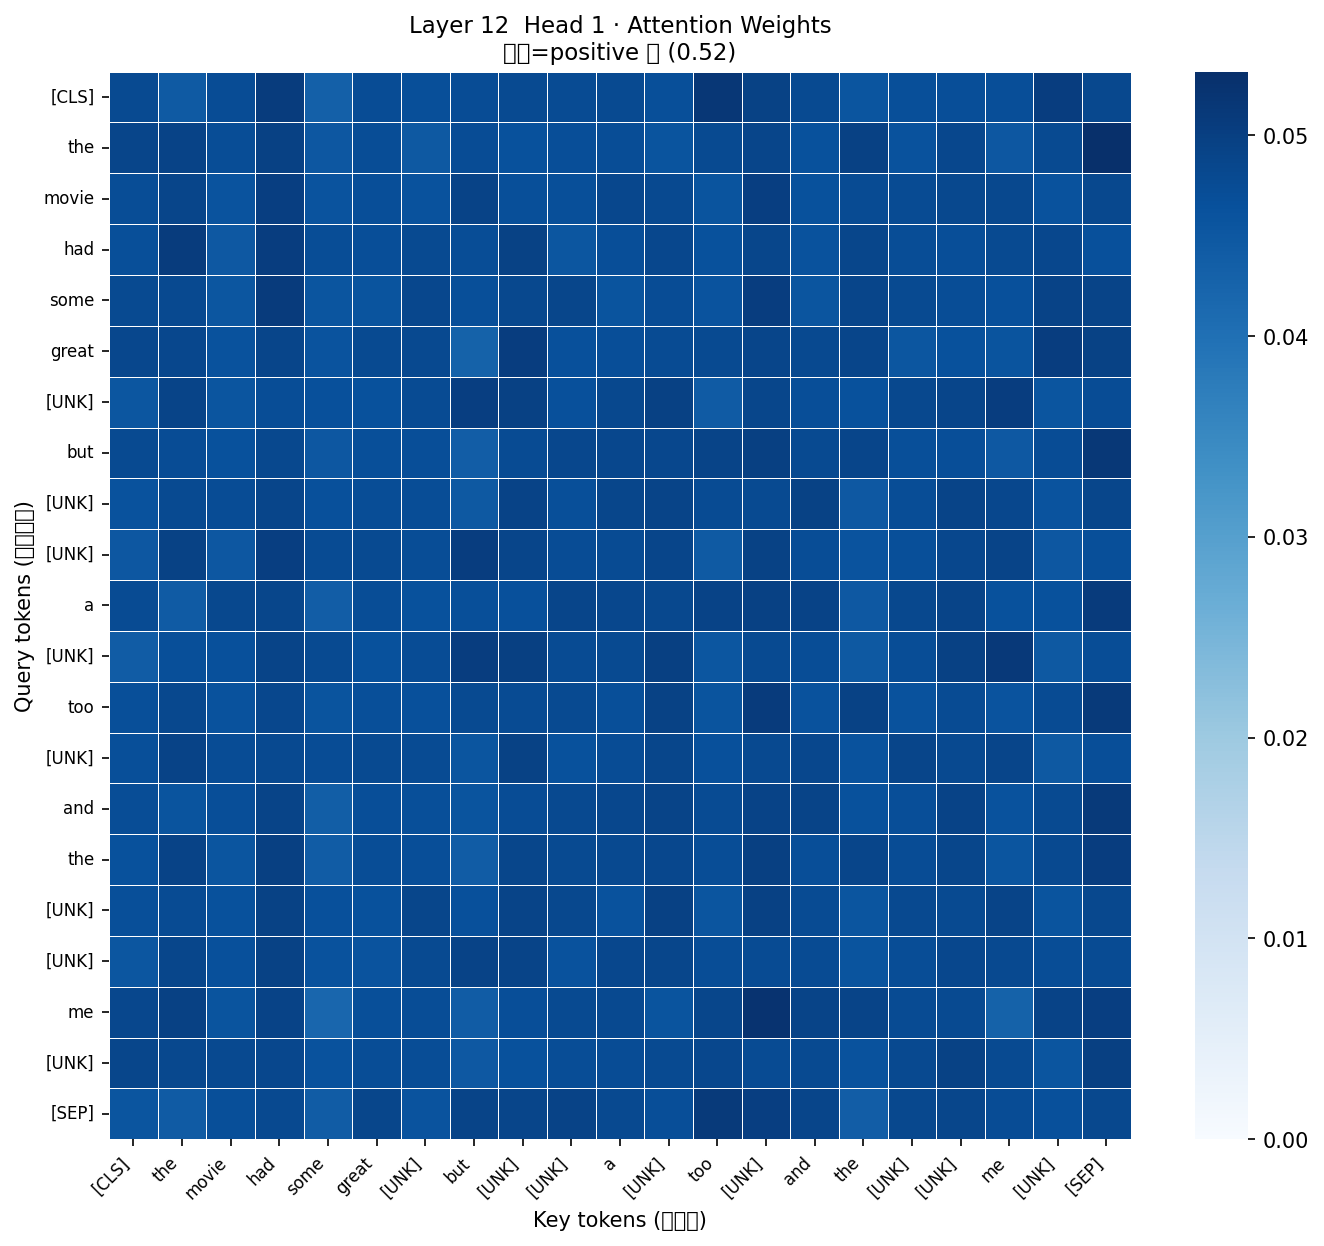
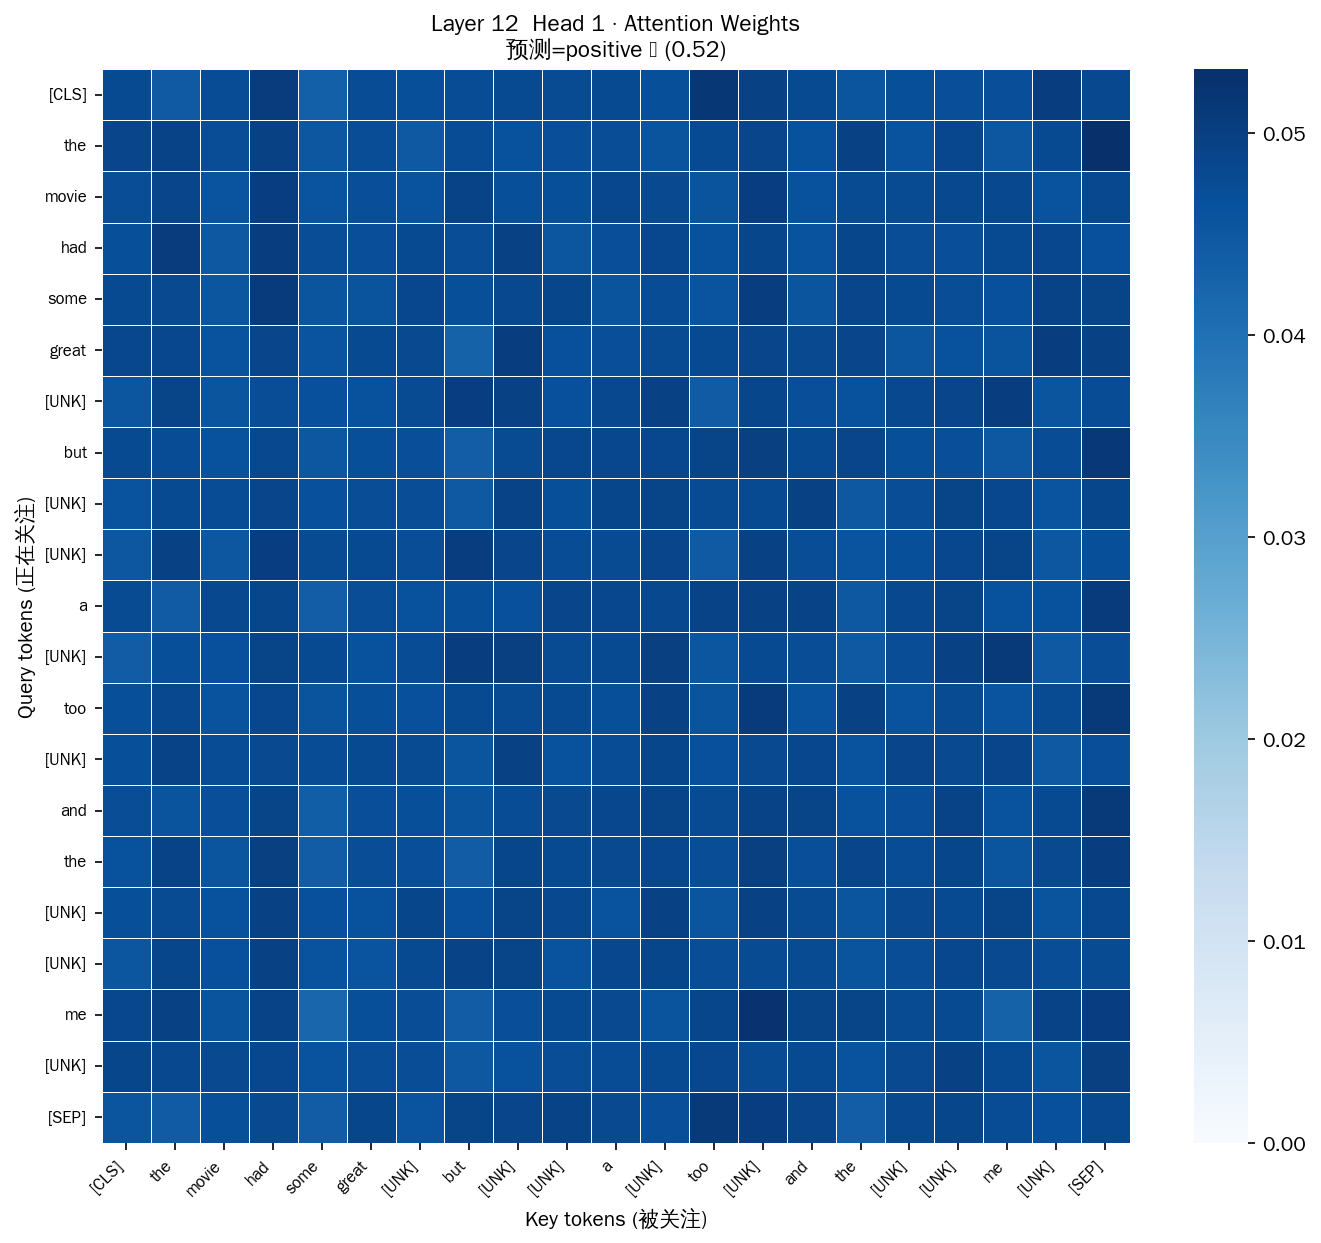
fix: resolve CJK font warnings in attention visualization
- Auto-detect and apply system CJK font (WenQuanYi Zen Hei, etc.)
- Remove emoji from label_map to avoid missing glyph warnings
- Regenerate all three attention plots with proper font rendering

https://claude.ai/code/session_01DG6oHA4yv9XnGC4oL2VsjZ

diff --git a/attention_visualization.py b/attention_visualization.py
@@ -11,8 +11,17 @@ BERT Attention 可视化 —— 连接「文本分类」与「可解释性」
 import torch
 import matplotlib.pyplot as plt
 import matplotlib.ticker as ticker
+import matplotlib.font_manager as fm
 import seaborn as sns
 import numpy as np
+
+# 解决中文字体缺失问题：自动查找系统可用的 CJK 字体
+_cjk_candidates = ["WenQuanYi Zen Hei", "Noto Sans CJK SC", "SimHei", "PingFang SC", "Microsoft YaHei", "Source Han Sans CN"]
+_available = {f.name for f in fm.fontManager.ttflist}
+_cjk_font = next((f for f in _cjk_candidates if f in _available), None)
+if _cjk_font:
+    plt.rcParams["font.sans-serif"] = [_cjk_font] + plt.rcParams["font.sans-serif"]
+    plt.rcParams["axes.unicode_minus"] = False
 from transformers import BertTokenizer, BertModel, BertForSequenceClassification
 
 # ─── 0. 加载已训练的模型 ──────────────────────────────────────────────────────────
@@ -151,7 +160,7 @@ def plot_attention_evolution(tokens, attentions, real_len, head=0):
     print(f"已保存：{fname}")
 
 # ─── 6. 主流程：跑三个样本 ───────────────────────────────────────────────────────────
-label_map = {0: "negative ❌", 1: "positive ✅"}
+label_map = {0: "negative", 1: "positive"}
 
 for i, text in enumerate(samples):
     print(f"\n{'='*60}")
